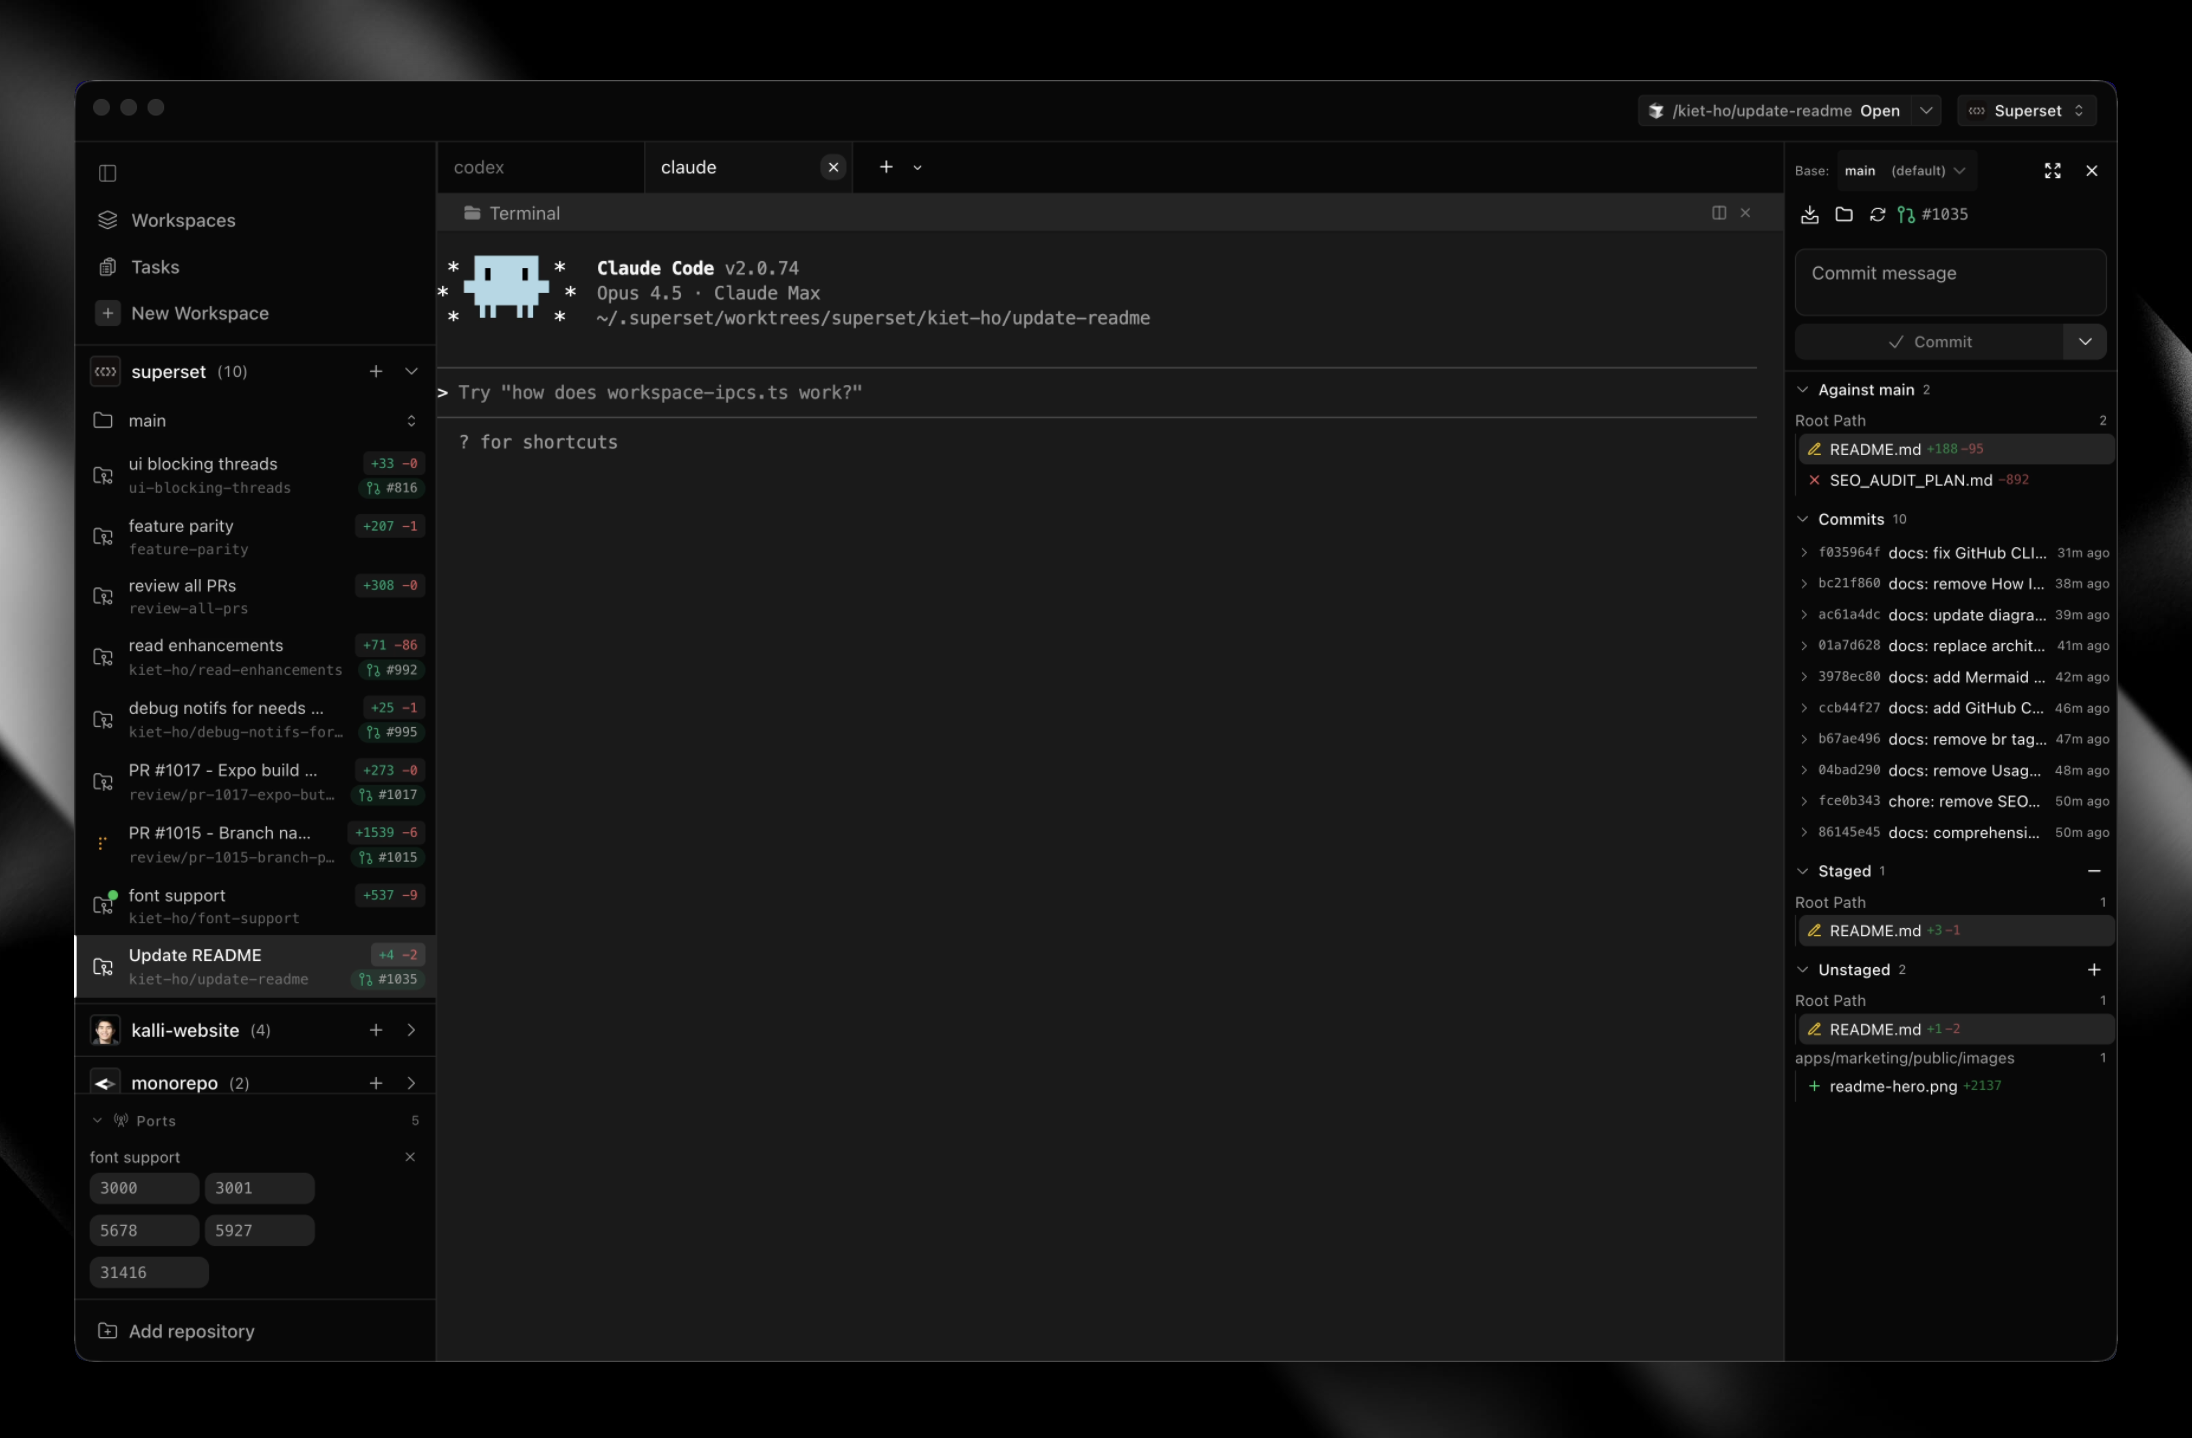
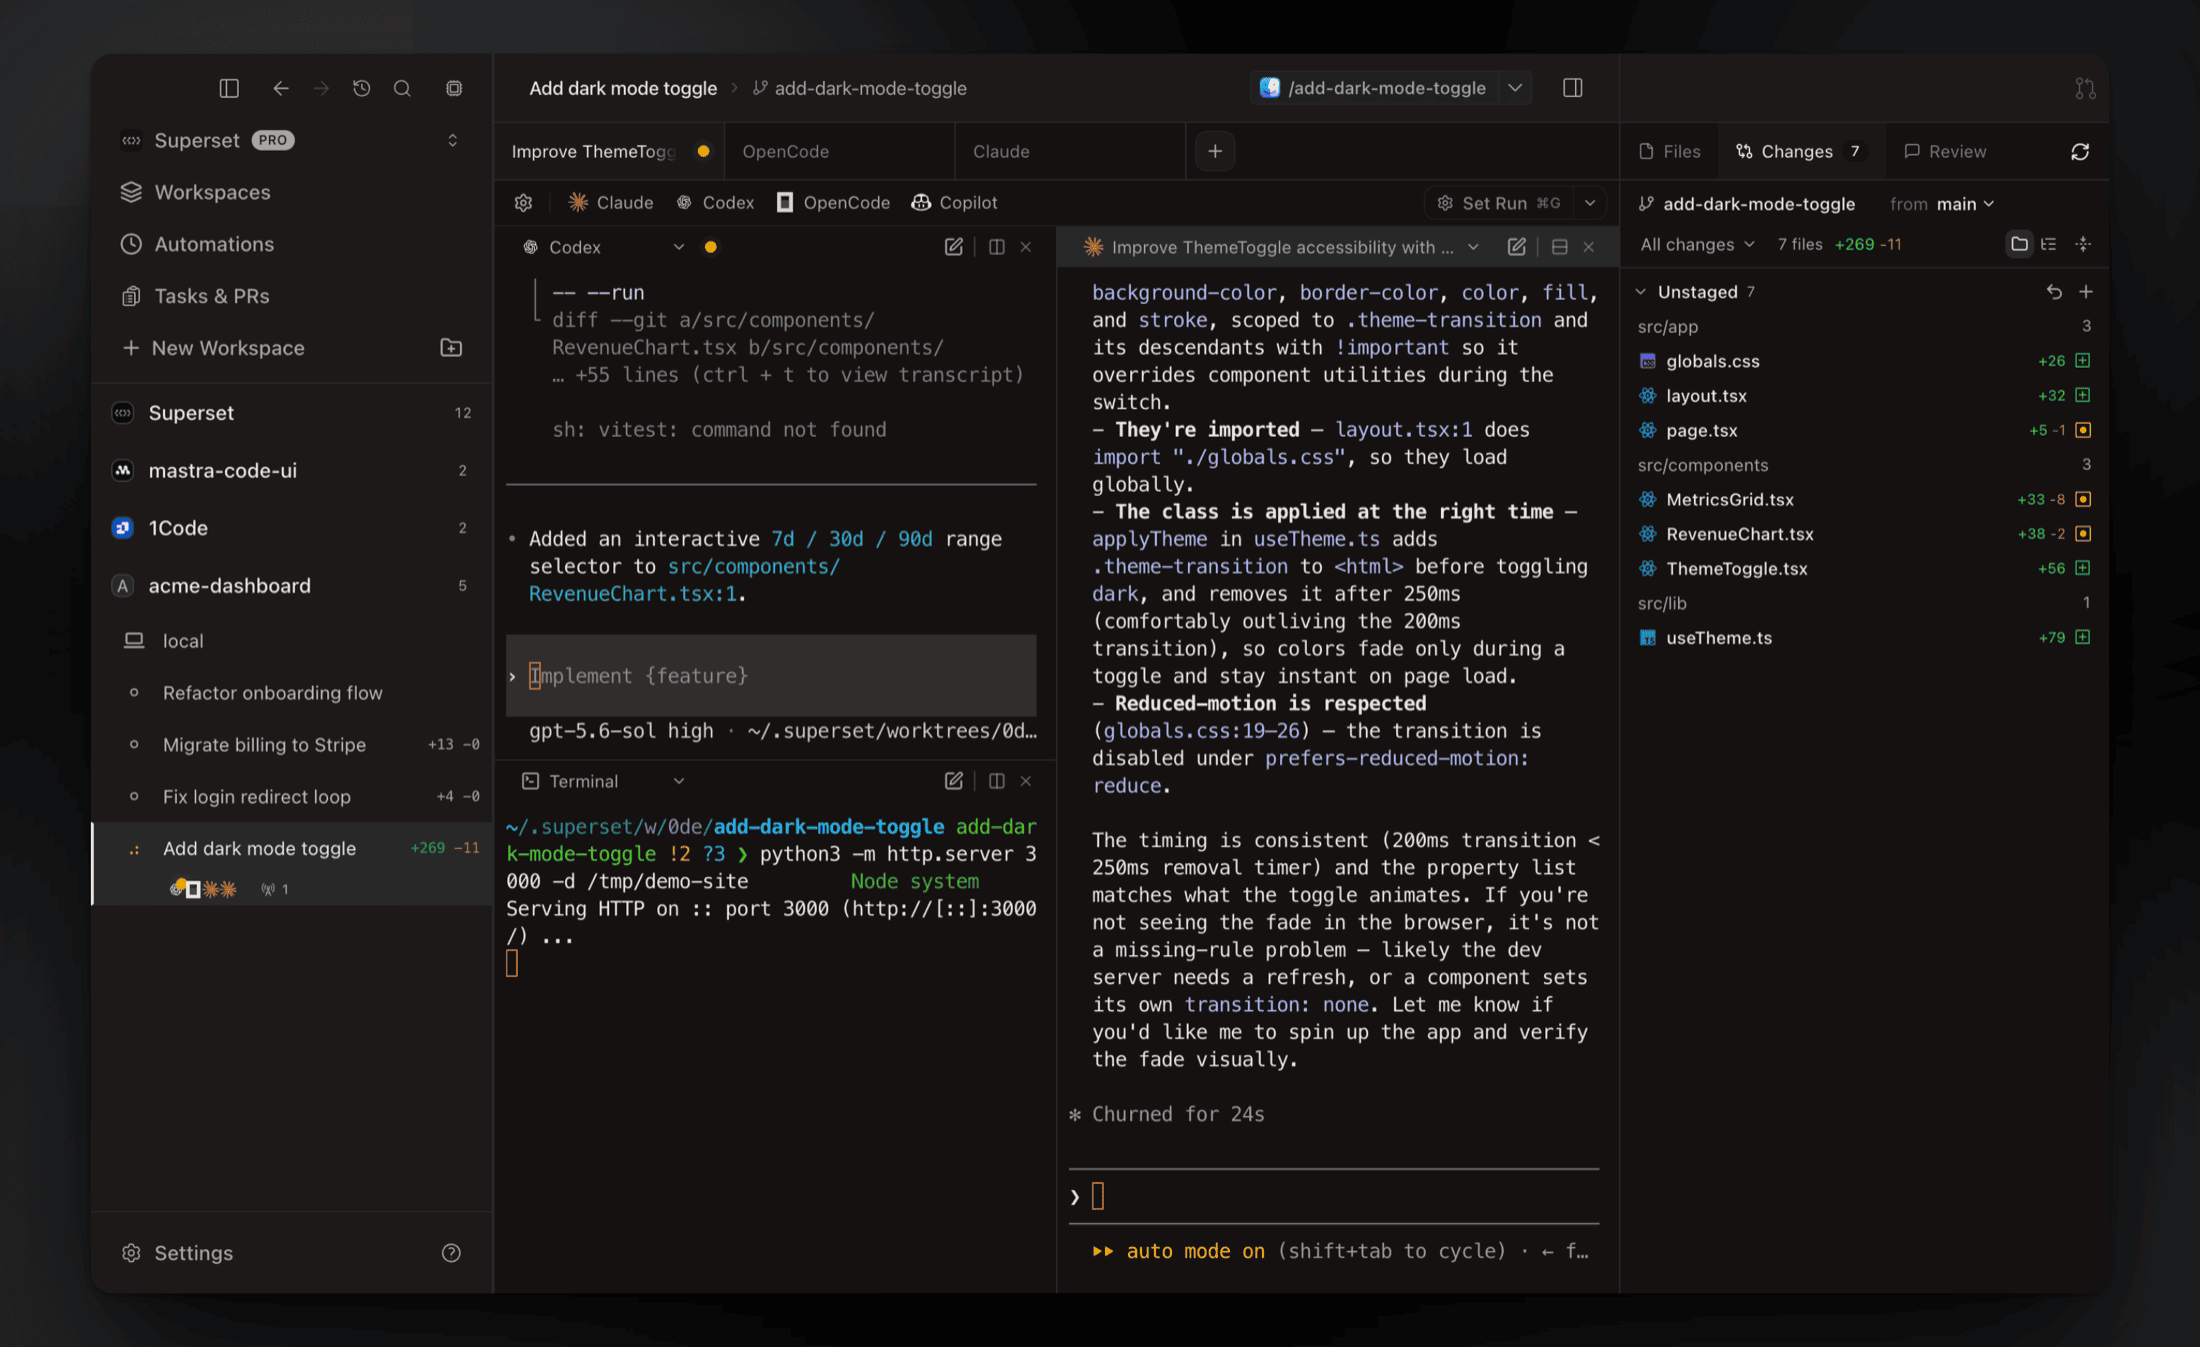
docs: add screenshot feature wall to README and visuals to docs pages (#5680)
* docs: add screenshot feature wall to README and visuals to docs pages

Restructure the README features section into a two-column feature wall
(one screenshot per feature, each linking to its docs page) and add
screenshots to the automations and browser docs pages. Shots were
captured from the dev desktop app over CDP against a staged demo
project, then framed with the changelog beautify pipeline.

* docs(readme): retake hero and agent-monitoring shots with multi-agent scene

Hero now shows the current v2 UI mid-flight: Codex and Claude Code in
split panes with a terminal serving a detected port, four agent
sessions stacked on the workspace row, and live diff stats. The
agent-monitoring shot is a tighter crop of the same scene without the
changes panel.

Pull request: docs: add screenshot feature wall to README and visuals to docs pages
## Summary
- Restructure the README Features section into an Orca-style two-column feature wall: 8 features, each with a real app screenshot linking to its docs.superset.sh page, plus an "Also in the box" list for smaller features with docs links.
- Condense the keyboard-shortcuts tables and Configuration section into short pointers to the docs (both pages cover them fully) and drop the contributor-facing Mastra note (already in AGENTS.md).
- Add screenshots to the two most-visited docs pages that had none: `automations.mdx` and `browser.mdx`.

## Why / Context
Competing agent IDEs (Orca in particular) pair every README feature with a screenshot and a docs link, which reads far better than our text-only feature table. We had one hero image and nothing else.

## How the screenshots were made
Captured from the dev desktop app over CDP (same pipeline as the weekly changelog automation): staged a demo `acme-dashboard` project with presentable workspace names, ran real Claude Code and Codex sessions in parallel, compact viewport at 2x DPR, framed with `.github/prompts/beautify-screenshot.ts`, compressed with pngquant (130-220KB each). The demo project and workspaces were fully torn down afterwards. The remote-workspaces cell reuses the existing public docs image rather than adding a new one.

## Manual QA Checklist
- [ ] README renders correctly on GitHub (feature wall table, images, links)
- [ ] All 8 feature images load and read clearly at half-width
[…]

diff --git a/README.md b/README.md
@@ -39,22 +39,132 @@ Wait less, ship more.
 
 ## Features
 
-| Feature | Description |
-|:--------|:------------|
-| **Parallel Execution** | Run 10+ coding agents simultaneously on your machine |
-| **Worktree Isolation** | Each task gets its own branch and working directory |
-| **Agent Monitoring** | Track every agent from the sidebar, with dock badges when one needs attention |
-| **Built-in Terminal** | Tabs, splits, presets, persistent sessions, and an optional rich prompt editor |
-| **Built-in Diff Viewer** | Inspect, comment on, and edit agent changes without leaving the app |
-| **Command Palette** | Jump to any workspace, action, or setting from one search box |
-| **In-App Browser & Ports** | Preview running dev servers, with ports detected per workspace |
-| **Remote Workspaces** | Connect another machine and reach its workspaces from anywhere |
-| **Automations** | Run agent sessions on a schedule |
-| **Custom Agents** | Add your own terminal agents with custom icons |
-| **Workspace Presets** | Automate env setup, dependency installation, and more |
-| **Slack & Linear** | Spin up workspaces from Slack messages or Linear issues |
-| **Universal Compatibility** | Works with any CLI agent that runs in a terminal |
-| **IDE Integration** | Open any workspace in your favorite editor with one click |
+<table>
+<tr>
+<td width="50%" valign="middle">
+
+### Parallel Workspaces
+
+Run 10+ coding agents at once, each in its own git worktree with its own branch, terminal, and environment. Compare the results and merge the winner.
+
+[Docs →](https://docs.superset.sh/workspaces)
+
+</td>
+<td width="50%">
+  <a href="https://docs.superset.sh/workspaces"><img src="apps/marketing/public/images/readme/parallel-workspaces.png" alt="Superset sidebar with multiple workspaces running agents in parallel" width="100%" /></a>
+</td>
+</tr>
+<tr>
+<td width="50%" valign="middle">
+
+### Agent Monitoring
+
+Track every agent from the sidebar, with working indicators, completion chimes, and dock badges when one needs your attention.
+
+[Docs →](https://docs.superset.sh/agent-integration)
+
+</td>
+<td width="50%">
+  <a href="https://docs.superset.sh/agent-integration"><img src="apps/marketing/public/images/readme/agent-monitoring.png" alt="Agent status indicators in the workspace sidebar" width="100%" /></a>
+</td>
+</tr>
+<tr>
+<td width="50%" valign="middle">
+
+### Built-in Terminal
+
+Tabs, infinite splits, presets, and persistent sessions that survive restarts. Press ⌘I for a rich prompt editor with multiline editing and @-file mentions.
+
+[Docs →](https://docs.superset.sh/terminal-integration)
+
+</td>
+<td width="50%">
+  <a href="https://docs.superset.sh/terminal-integration"><img src="apps/marketing/public/images/readme/terminal.png" alt="Split terminals running agents side by side" width="100%" /></a>
+</td>
+</tr>
+<tr>
+<td width="50%" valign="middle">
+
+### Built-in Diff Viewer
+
+Inspect, comment on, and edit agent changes without leaving the app, then commit and push when it's ready.
+
+[Docs →](https://docs.superset.sh/diff-viewer)
+
+</td>
+<td width="50%">
+  <a href="https://docs.superset.sh/diff-viewer"><img src="apps/marketing/public/images/readme/diff-viewer.png" alt="Reviewing an agent's changes in the diff viewer" width="100%" /></a>
+</td>
+</tr>
+<tr>
+<td width="50%" valign="middle">
+
+### In-App Browser & Ports
+
+Preview running dev servers in a browser pane. Ports are detected per workspace, so every worktree gets its own preview.
+
+[Docs →](https://docs.superset.sh/browser)
+
+</td>
+<td width="50%">
+  <a href="https://docs.superset.sh/browser"><img src="apps/marketing/public/images/readme/browser-ports.png" alt="In-app browser previewing a dev server with detected ports" width="100%" /></a>
+</td>
+</tr>
+<tr>
+<td width="50%" valign="middle">
+
+### Automations
+
+Run agent sessions on a schedule: triage issues overnight, draft the weekly changelog, keep dependencies fresh.
+
+[Docs →](https://docs.superset.sh/automations)
+
+</td>
+<td width="50%">
+  <a href="https://docs.superset.sh/automations"><img src="apps/marketing/public/images/readme/automations.png" alt="Scheduled agent automations" width="100%" /></a>
+</td>
+</tr>
+<tr>
+<td width="50%" valign="middle">
+
+### Remote Workspaces
+
+Connect another machine and reach its workspaces from anywhere: the desktop app, the CLI, or your phone. Wake offline hosts with a custom command.
+
+[Docs →](https://docs.superset.sh/remote-workspaces)
+
+</td>
+<td width="50%">
+  <a href="https://docs.superset.sh/remote-workspaces"><img src="apps/docs/public/images/remote-workspaces-hosts-members.png" alt="Hosts and members in organization settings" width="100%" /></a>
+</td>
+</tr>
+<tr>
+<td width="50%" valign="middle">
+
+### Command Palette
+
+Jump to any workspace, action, or setting from one search box.
+
+[Docs →](https://docs.superset.sh/keyboard-shortcuts)
+
+</td>
+<td width="50%">
+  <a href="https://docs.superset.sh/keyboard-shortcuts"><img src="apps/marketing/public/images/readme/command-palette.png" alt="Command palette searching across workspaces and actions" width="100%" /></a>
+</td>
+</tr>
+</table>
+
+**Also in the box:**
+
+- **[Model picker & custom agents](https://docs.superset.sh/agent-integration)**: choose a model and reasoning effort at launch, and add any terminal agent with its own icon
+- **[Workspace setup scripts](https://docs.superset.sh/setup-teardown-scripts)**: automate env setup, dependency installs, and dev servers per workspace
+- **[Terminal presets](https://docs.superset.sh/terminal-presets)**: save agent and shell layouts and open them with one keystroke
+- **[Slack & Linear](https://docs.superset.sh/use-with-linear)**: spin up workspaces from Slack messages or Linear issues
+- **[Open in your IDE](https://docs.superset.sh/use-with-ide)**: one-click handoff to Cursor, VS Code, or any editor
+- **[Custom themes](https://docs.superset.sh/custom-themes)**: build, edit, and import theme files
+- **[Keyboard shortcuts](https://docs.superset.sh/keyboard-shortcuts)**: every action is remappable via **Settings → Keyboard Shortcuts** (⌘/)
+- **[Bring your own providers](https://docs.superset.sh/providers)**: connect OpenRouter, Bedrock, Vertex, or Vercel AI Gateway
+- **And many more**: we ship daily, so this list is perpetually behind. The [changelog](https://superset.sh/changelog) is the real feature list.
 
 ## Supported Agents
 
@@ -140,42 +250,6 @@ Prereqs: `bun`, `docker`, `jq`, `caddy` (`brew install jq caddy && caddy trust`)
 
 See [**DEVELOPMENT.md**](./DEVELOPMENT.md) for the full guide: what the setup script does, manual setup against real services, common commands, troubleshooting, and how to build the desktop app. Contribution process lives in [**CONTRIBUTING.md**](./CONTRIBUTING.md).
 
-## Keyboard Shortcuts
-
-All shortcuts are customizable via **Settings > Keyboard Shortcuts** (`⌘/`). See [full documentation](https://docs.superset.sh/keyboard-shortcuts).
-
-### Workspace Navigation
-
-| Shortcut | Action |
-|:---------|:-------|
-| `⌘1-9` | Switch to workspace 1-9 |
-| `⌘⌥↑/↓` | Previous/next workspace |
-| `⌘N` | New workspace |
-| `⌘⇧N` | Quick create workspace |
-| `⌘⇧O` | Open project |
-
-### Terminal
-
-| Shortcut | Action |
-|:---------|:-------|
-| `⌘T` | New tab |
-| `⌘W` | Close pane/terminal |
-| `⌘D` | Split right |
-| `⌘⇧D` | Split down |
-| `⌘K` | Clear terminal |
-| `⌘F` | Find in terminal |
-| `⌘⌥←/→` | Previous/next tab |
-| `Ctrl+1-9` | Open preset 1-9 |
-
-### Layout
-
-| Shortcut | Action |
-|:---------|:-------|
-| `⌘B` | Toggle workspaces sidebar |
-| `⌘L` | Toggle changes panel |
-| `⌘O` | Open in external app |
-| `⌘⇧C` | Copy path |
-
 ## Configuration
 
 Configure workspace setup, teardown, and run scripts in `.superset/config.json`. See [full documentation](https://docs.superset.sh/setup-teardown-scripts).
@@ -188,36 +262,7 @@ Configure workspace setup, teardown, and run scripts in `.superset/config.json`.
 }
 ```
 
-| Option | Type | Description |
-|:-------|:-----|:------------|
-| `setup` | `string[]` | Commands to run when creating a workspace |
-| `teardown` | `string[]` | Commands to run when deleting a workspace |
-| `run` | `string[]` | Restartable dev-server commands, triggered by the Run button |
-
-### Example setup script
-
-```bash
-#!/bin/bash
-# .superset/setup.sh
-
-# Copy environment variables
-cp ../.env .env
-
-# Install dependencies
-bun install
-
-# Run any other setup tasks
-echo "Workspace ready!"
-```
-
-Scripts have access to environment variables:
-- `SUPERSET_WORKSPACE_NAME`: name of the workspace
-- `SUPERSET_WORKSPACE_PATH`: path to the workspace worktree
-- `SUPERSET_ROOT_PATH`: path to the main repository
-
-## Mastra Dependencies
-
-This repo uses the published upstream `mastracode` and `@mastra/*` packages directly. Avoid adding custom tarball overrides unless there is a repo-specific blocker.
+Keyboard shortcuts are customizable via **Settings → Keyboard Shortcuts** (⌘/); see the [full shortcut list](https://docs.superset.sh/keyboard-shortcuts).
 
 ## Tech Stack
 